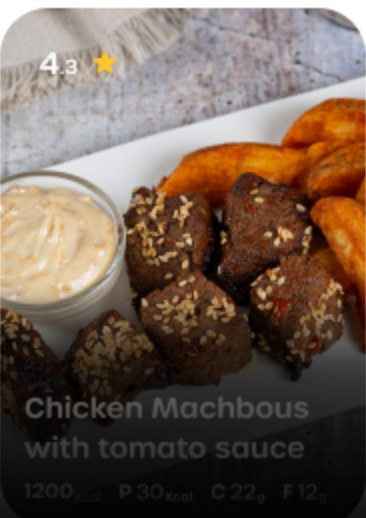
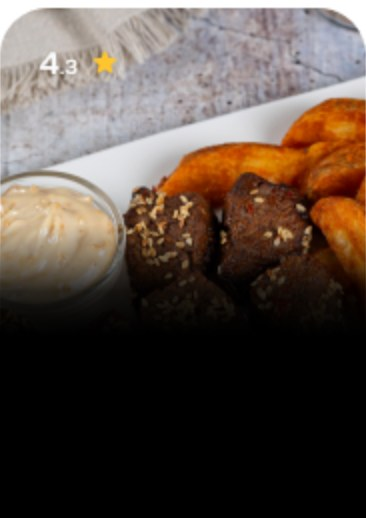
Meal Selector: clean fade-to-black photo bottoms + fresh hub preview
Alpha scrims cannot hide white-on-dark baked text (contrast survives any
partial opacity), and pixel inpainting failed on white-on-white regions —
final treatment is a confident fade to solid black over the text band:
clean photo above, artifact-free black below, our text fully readable.
Images cache-busted to ?v=4; hub preview re-captured on the current
full-page design.

diff --git a/meal-select/index.html b/meal-select/index.html
@@ -458,28 +458,28 @@
 /* ================= data ================= */
 const DISHES = {
   breakfast: [
-    { n: 'Shakshuka with Sourdough', kcal: 420, p: 21, c: 38, f: 19, r: '4.3', img: 'dish-3.jpg', bk: 1 },
-    { n: 'Overnight Oats with Berries', kcal: 380, p: 14, c: 52, f: 11, r: '4.3', img: 'dish-4.jpg', bk: 1 },
-    { n: 'Labneh Toast with Zaatar', kcal: 350, p: 12, c: 40, f: 15, r: '4.3', img: 'dish-2.jpg', bk: 1 },
+    { n: 'Shakshuka with Sourdough', kcal: 420, p: 21, c: 38, f: 19, r: '4.3', img: 'dish-3.jpg?v=4', bk: 1 },
+    { n: 'Overnight Oats with Berries', kcal: 380, p: 14, c: 52, f: 11, r: '4.3', img: 'dish-4.jpg?v=4', bk: 1 },
+    { n: 'Labneh Toast with Zaatar', kcal: 350, p: 12, c: 40, f: 15, r: '4.3', img: 'dish-2.jpg?v=4', bk: 1 },
   ],
   lunch: [
     { n: 'Baked Chicken Fingers with Wedges', kcal: 480, p: 30, c: 22, f: 12, r: '4.3', img: 'dish-1.jpg' },
-    { n: 'Chicken Machbous with tomato sauce', kcal: 465, p: 32, c: 48, f: 14, r: '4.3', img: 'dish-2.jpg', bk: 1 },
-    { n: 'Thai Chicken Curry with Cube Potato', kcal: 440, p: 28, c: 41, f: 16, r: '4.3', img: 'dish-3.jpg', bk: 1 },
-    { n: 'Grilled Chicken with Garfelo Pasta', kcal: 452, p: 35, c: 44, f: 12, r: '4.3', img: 'dish-4.jpg', bk: 1 },
+    { n: 'Chicken Machbous with tomato sauce', kcal: 465, p: 32, c: 48, f: 14, r: '4.3', img: 'dish-2.jpg?v=4', bk: 1 },
+    { n: 'Thai Chicken Curry with Cube Potato', kcal: 440, p: 28, c: 41, f: 16, r: '4.3', img: 'dish-3.jpg?v=4', bk: 1 },
+    { n: 'Grilled Chicken with Garfelo Pasta', kcal: 452, p: 35, c: 44, f: 12, r: '4.3', img: 'dish-4.jpg?v=4', bk: 1 },
   ],
   dinner: [
-    { n: 'Seared Salmon with Greens', kcal: 430, p: 34, c: 18, f: 24, r: '4.3', img: 'dish-4.jpg', bk: 1 },
-    { n: 'Beef Tenderloin with Mash', kcal: 465, p: 38, c: 30, f: 18, r: '4.3', img: 'dish-2.jpg', bk: 1 },
-    { n: 'Halloumi Quinoa Bowl', kcal: 410, p: 22, c: 43, f: 17, r: '4.3', img: 'dish-3.jpg', bk: 1 },
+    { n: 'Seared Salmon with Greens', kcal: 430, p: 34, c: 18, f: 24, r: '4.3', img: 'dish-4.jpg?v=4', bk: 1 },
+    { n: 'Beef Tenderloin with Mash', kcal: 465, p: 38, c: 30, f: 18, r: '4.3', img: 'dish-2.jpg?v=4', bk: 1 },
+    { n: 'Halloumi Quinoa Bowl', kcal: 410, p: 22, c: 43, f: 17, r: '4.3', img: 'dish-3.jpg?v=4', bk: 1 },
   ],
   snacks: [
     { n: 'Protein Energy Bites', kcal: 160, p: 9, c: 14, f: 8, r: '4.3', img: 'dish-1.jpg' },
-    { n: 'Greek Yogurt with Honey', kcal: 140, p: 11, c: 16, f: 3, r: '4.3', img: 'dish-4.jpg', bk: 1 },
-    { n: 'Spiced Nuts Mix', kcal: 180, p: 6, c: 8, f: 14, r: '4.3', img: 'dish-2.jpg', bk: 1 },
+    { n: 'Greek Yogurt with Honey', kcal: 140, p: 11, c: 16, f: 3, r: '4.3', img: 'dish-4.jpg?v=4', bk: 1 },
+    { n: 'Spiced Nuts Mix', kcal: 180, p: 6, c: 8, f: 14, r: '4.3', img: 'dish-2.jpg?v=4', bk: 1 },
   ],
   dessert: [
-    { n: 'Date & Cacao Brownie', kcal: 210, p: 6, c: 28, f: 9, r: '4.3', img: 'dish-3.jpg', bk: 1 },
+    { n: 'Date & Cacao Brownie', kcal: 210, p: 6, c: 28, f: 9, r: '4.3', img: 'dish-3.jpg?v=4', bk: 1 },
     { n: 'Chia Mango Pudding', kcal: 190, p: 7, c: 26, f: 7, r: '4.3', img: 'dish-1.jpg' },
   ],
 };
